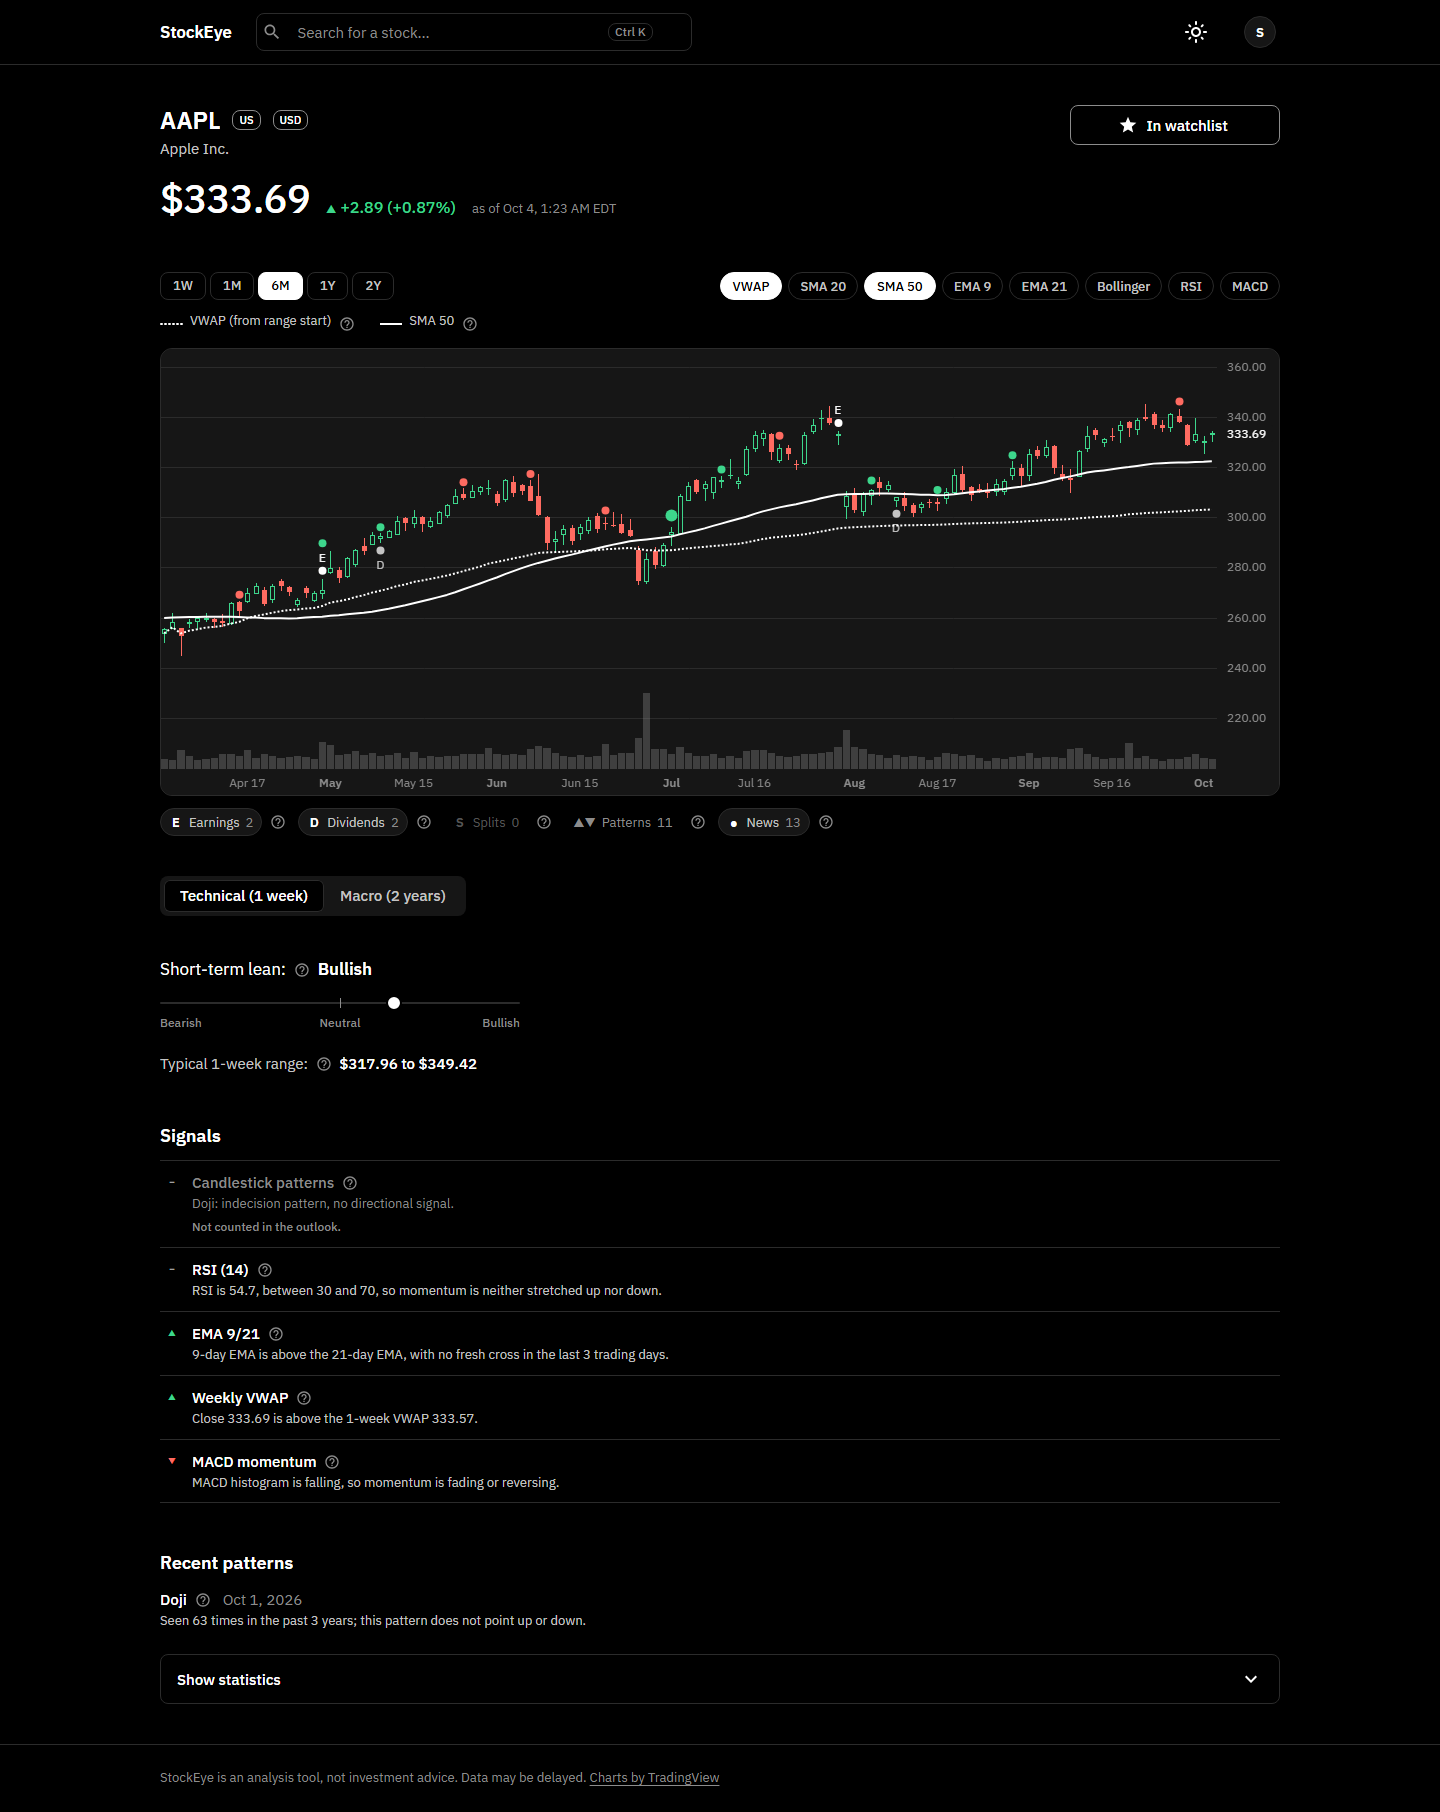
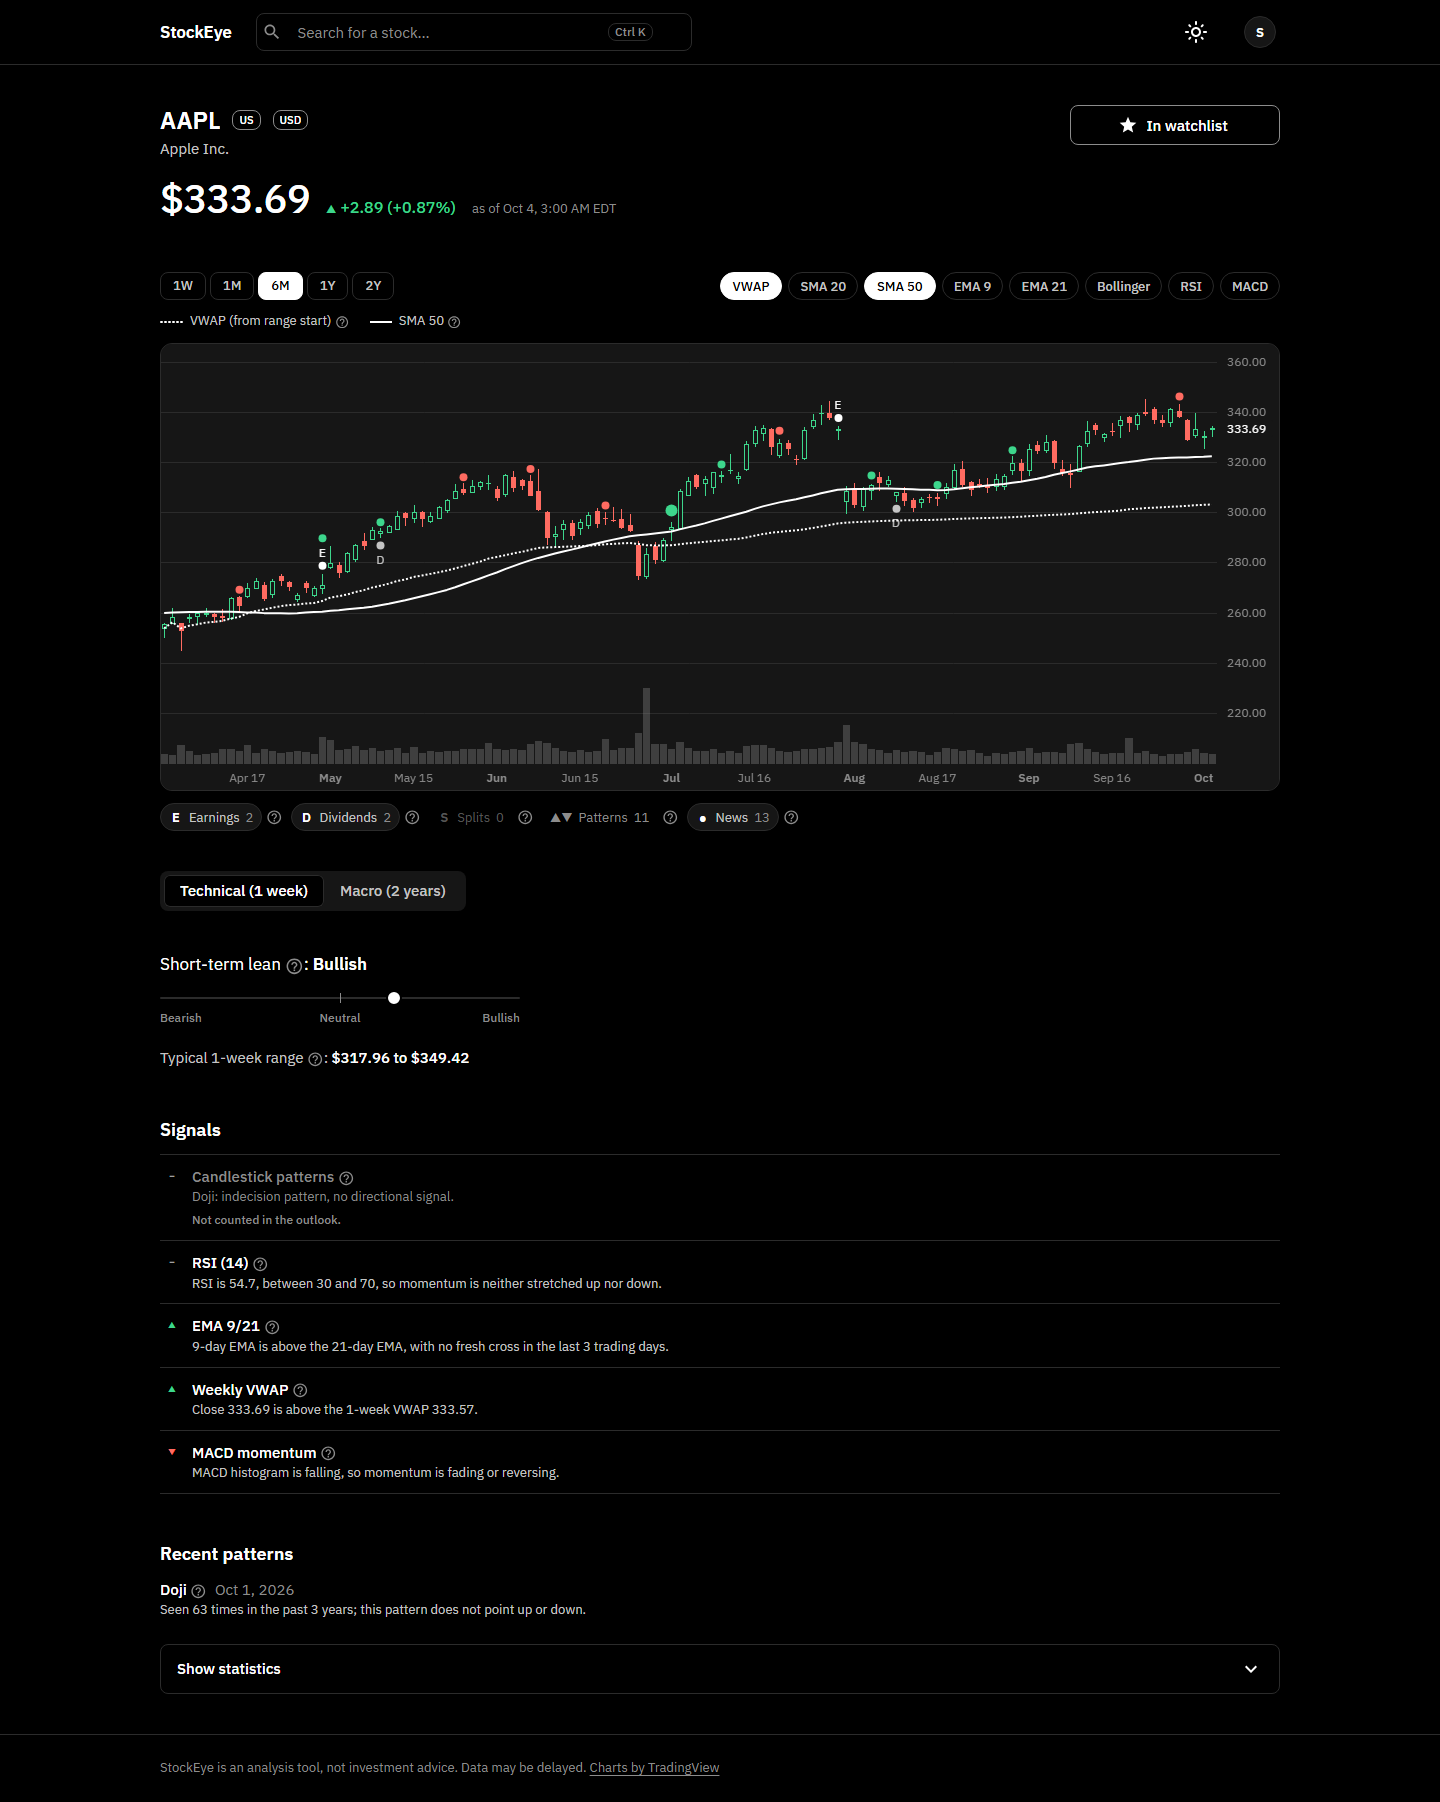
docs: re-shoot screenshots; phase 4 frontend status

diff --git a/docs/PLAN.md b/docs/PLAN.md
@@ -377,7 +377,7 @@ One Sonnet task (F1), after the types are regenerated.
 ### Phase 4 status
 - [x] B1 period dates and averaged wording (counts say "news days studied"; sign-aware pre-move caveat)
 - [x] Backend methodology audit and thermo review approved (896 tests)
-- [ ] F1 icon alignment, period line and breakdown line
-- [ ] Frontend Opus review approved
-- [ ] Live verification and screenshots
+- [x] F1 icon alignment, period line and breakdown line (plus one "news days" noun, reconciled Details counts)
+- [x] Frontend Opus review approved (round 3; 155 tests)
+- [x] Live verification and screenshots (admin shot unchanged: admin page untouched)
 - [ ] PRs open and CI green
